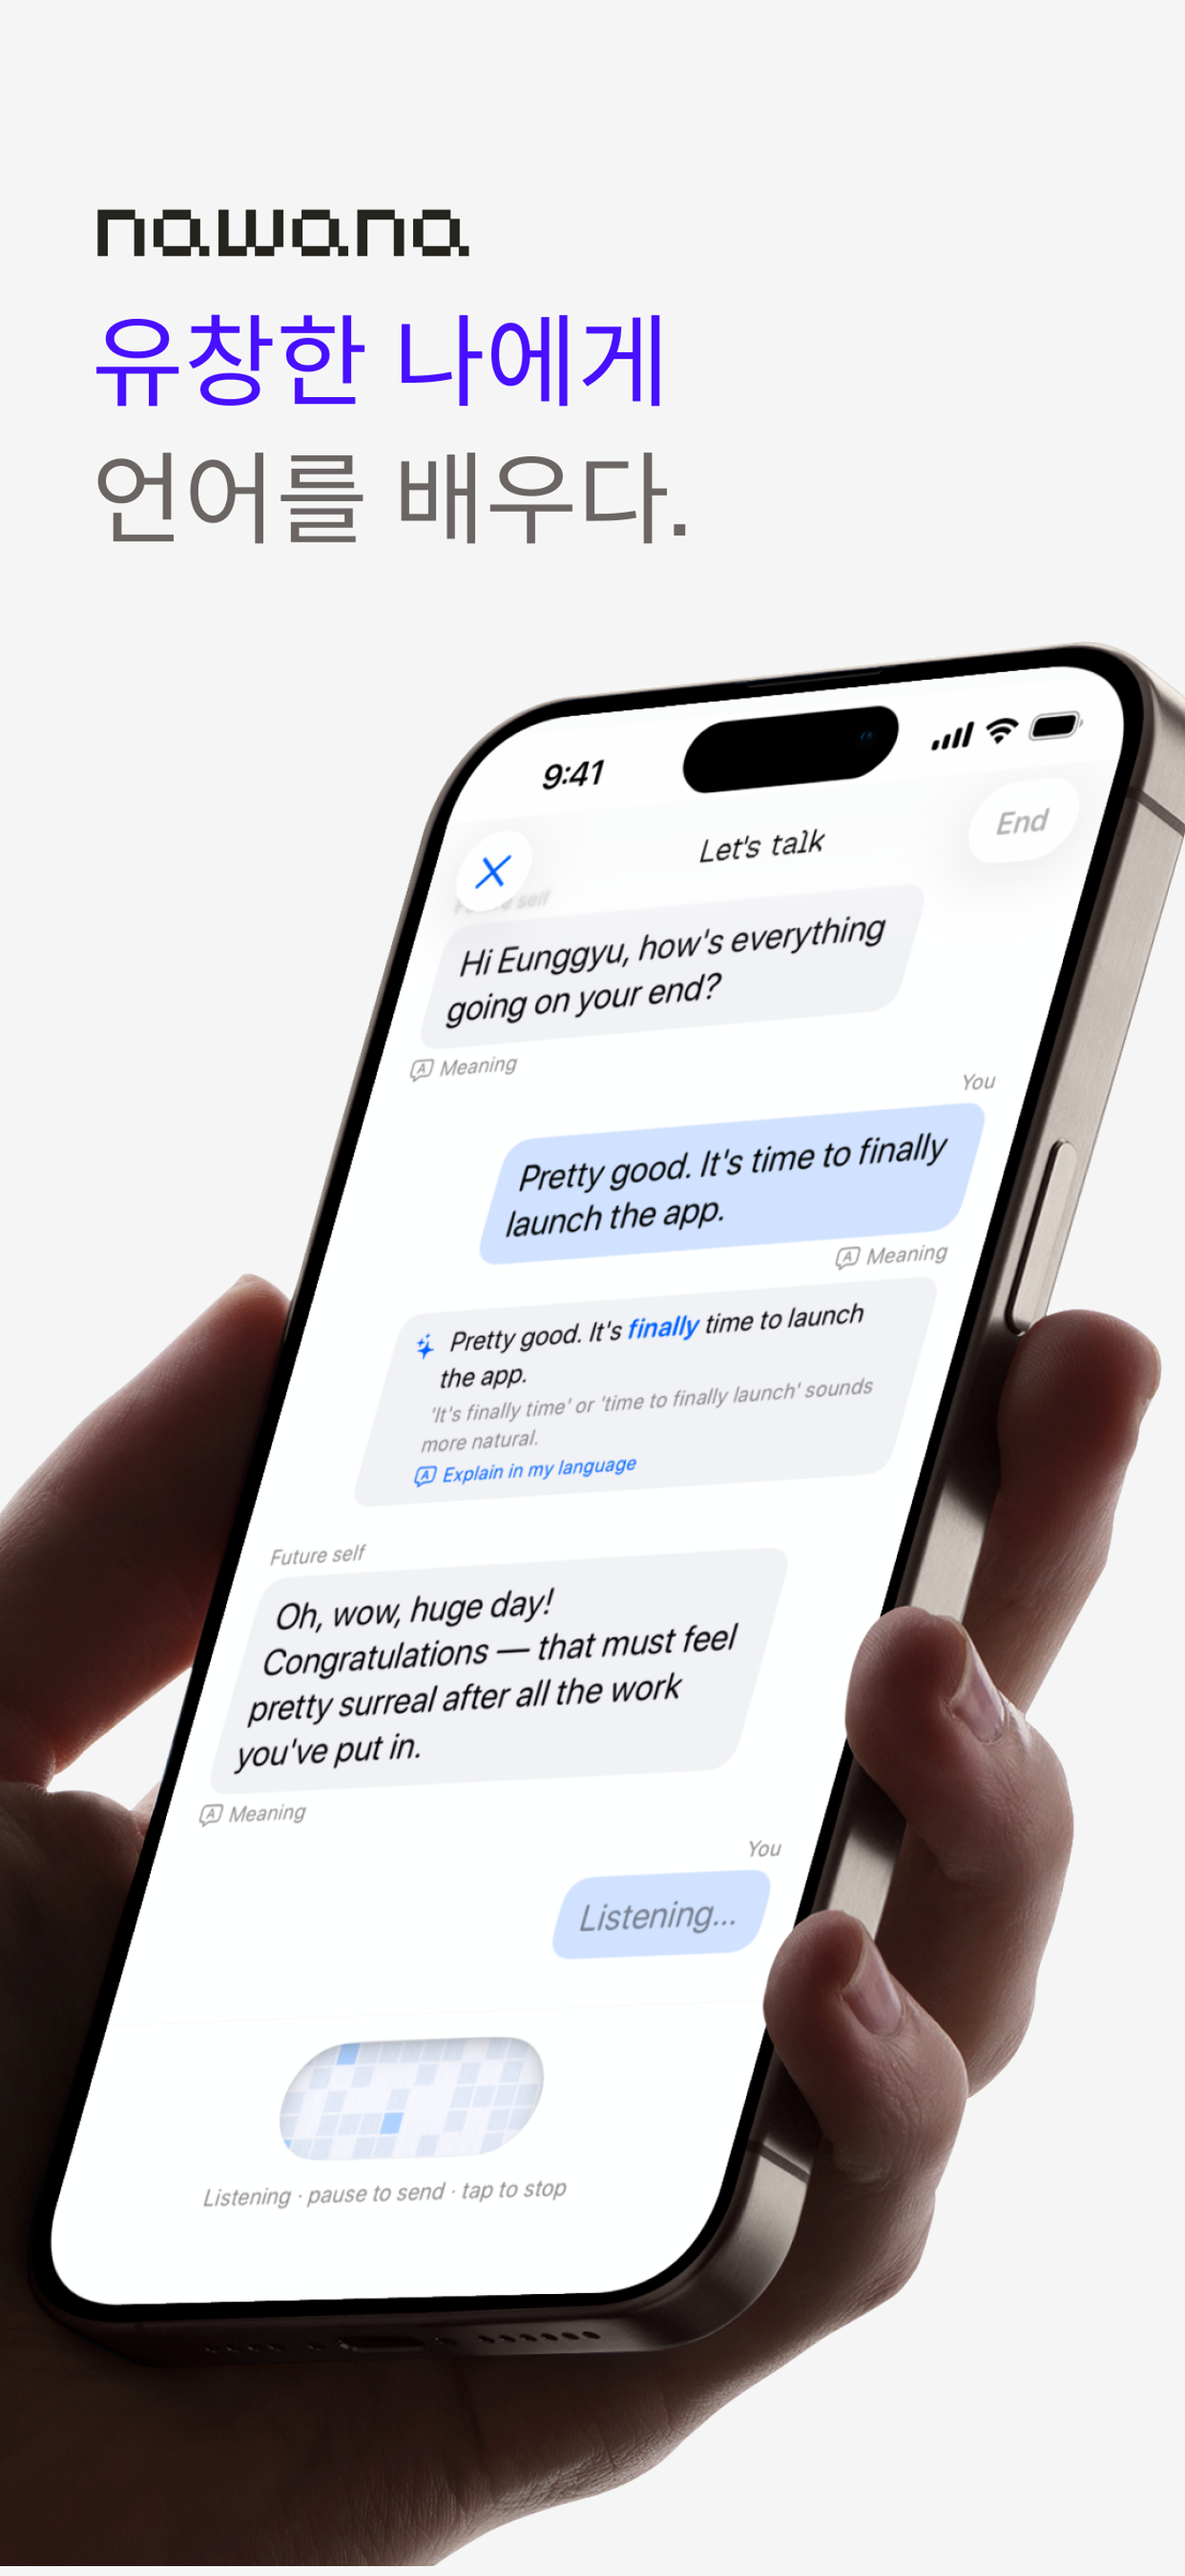
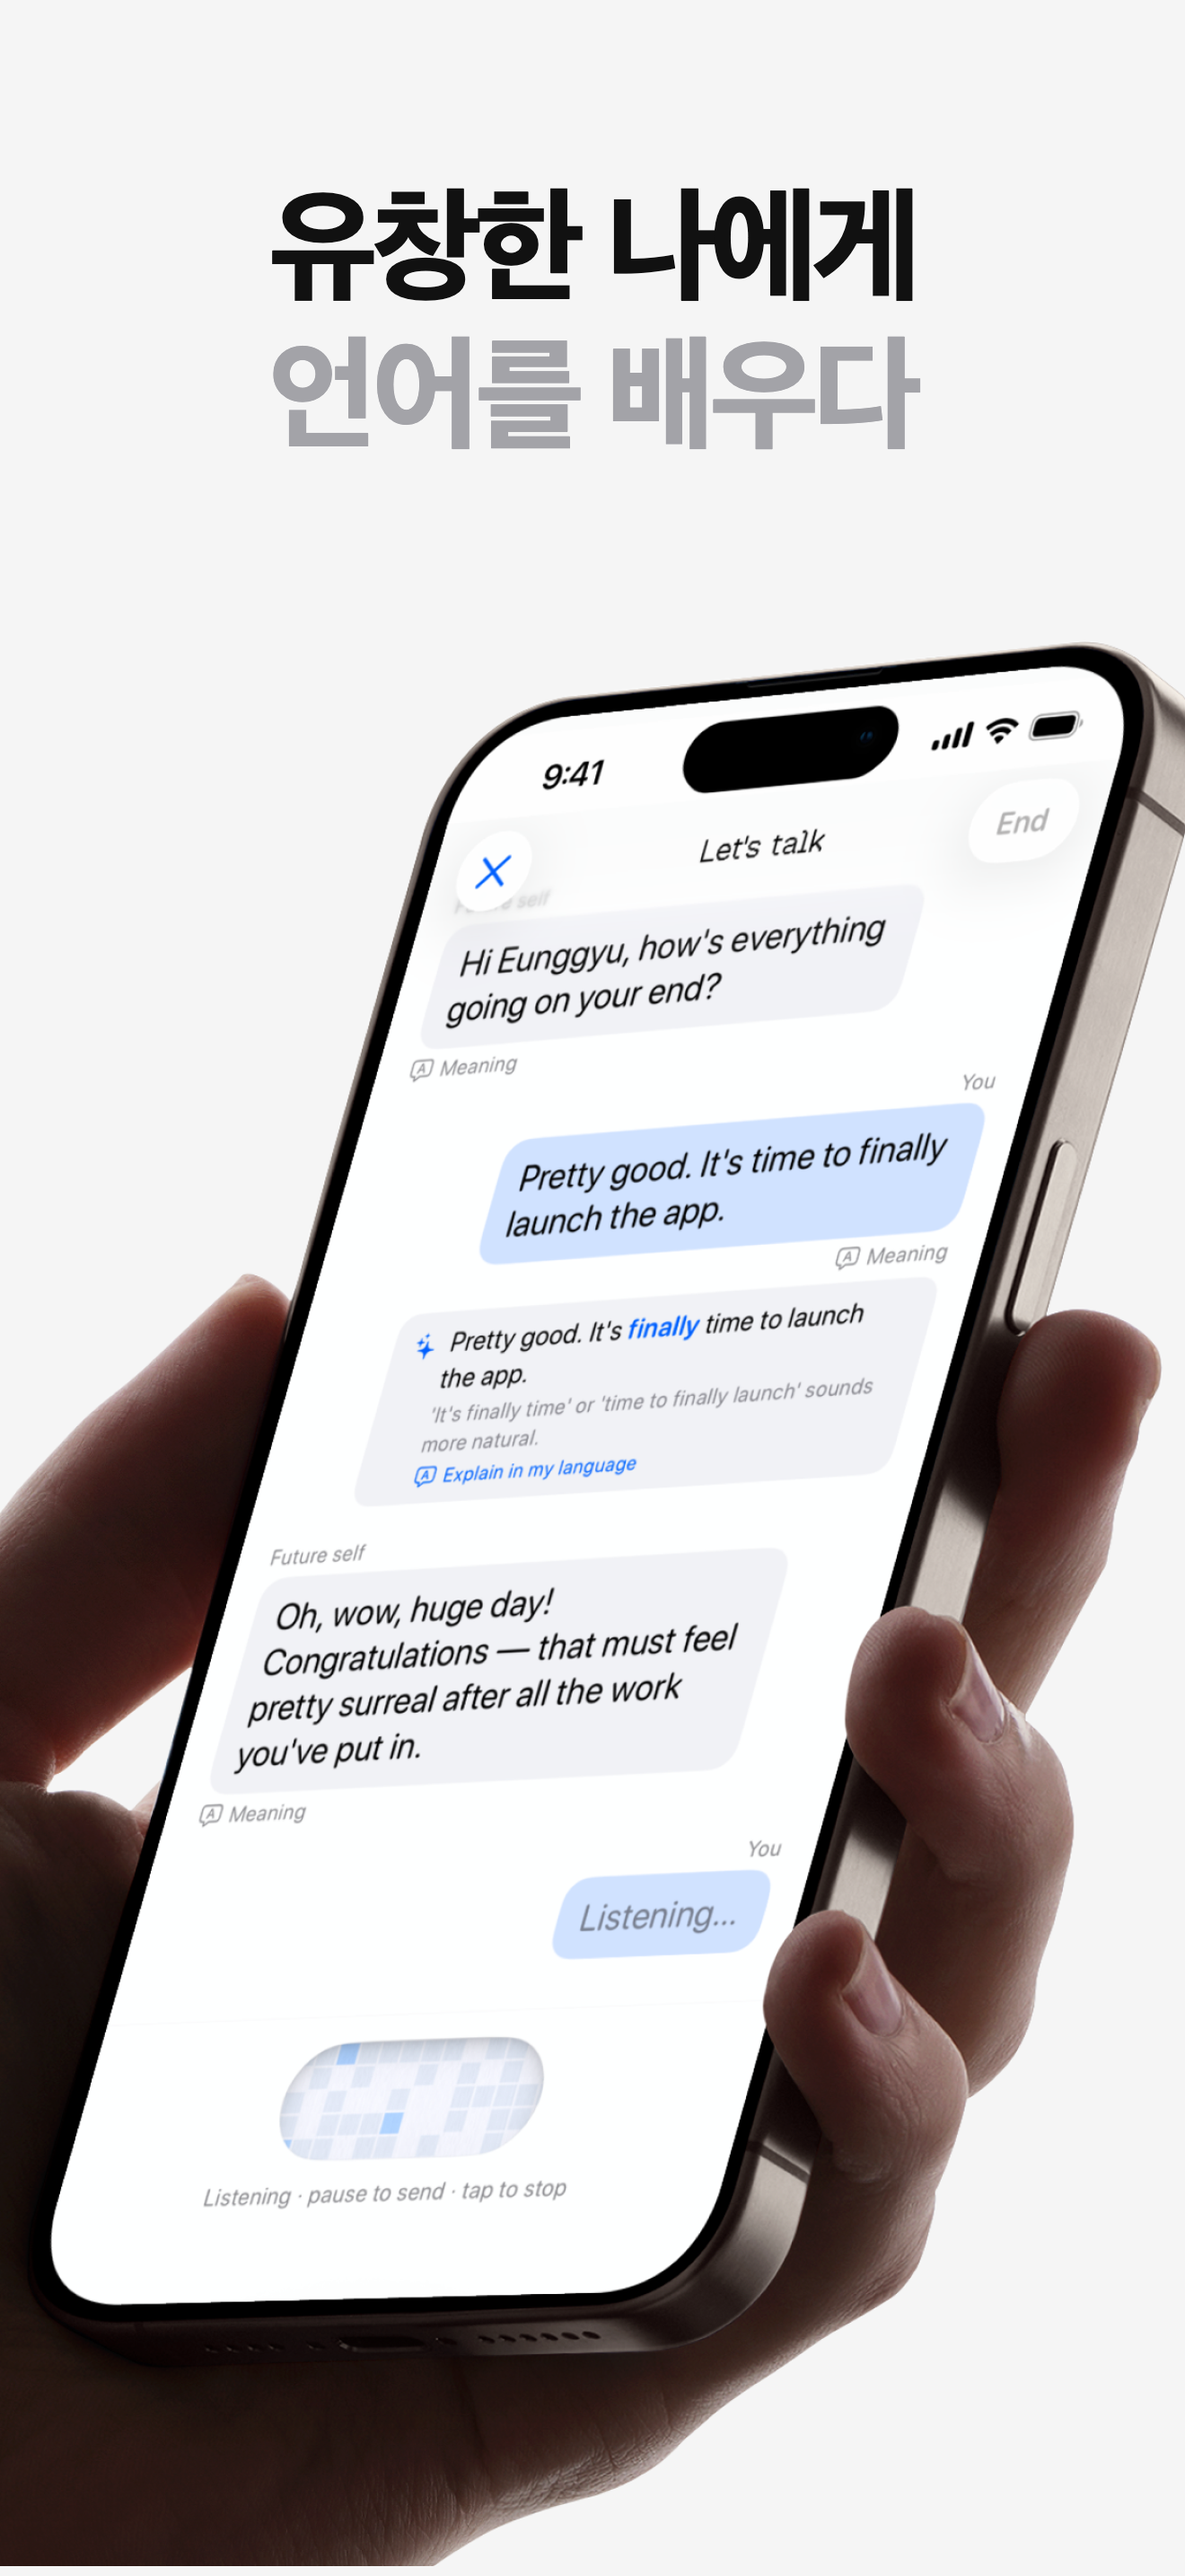
marketing(asc): screenshot 1 headline in the same type as the rest
The hand photo stays; its pixel-font wordmark and text give way to the
two-tone bold headline every other shot uses.

Changed region(s): [[0.0621, 0.0621, 0.7765, 0.2172]]

diff --git a/marketing/content/2026-11-11-asc-first-three/gen_01.py b/marketing/content/2026-11-11-asc-first-three/gen_01.py
@@ -1,0 +1,16 @@
+# Shot 01 (founder 11-15): the live hand photo kept, its pixel-font text replaced by the
+# same two-tone bold headline every other shot uses.
+import sys
+D = "/private/tmp/claude-502/-Users-eunggyuelee-FutureVoice/28555fe9-7198-4899-99bf-1aa90e91e314/scratchpad/asc/dev"
+TEXT = {"ko": ("유창한 나에게", "언어를 배우다"), "en": ("Learn a language", "from your fluent self")}
+SRC = {"ko": f"{D}/hand_1320.png", "en": f"{D}/hand_en_1320.png"}
+OUTF = {"ko": "G-set/01_hand.png", "en": "sets/ios/en/01.png"}
+for lang in ("ko", "en"):
+    sys.argv = ["x", lang, D]
+    import importlib, gen_lang as g
+    importlib.reload(g)
+    body = (f'<img src="file://{SRC[lang]}" style="position:absolute;left:0;top:0;width:1320px">'
+            '<div style="position:absolute;left:0;top:0;width:1320px;height:690px;background:#F5F5F5"></div>'
+            + g.title(TEXT[lang]))
+    g.render(body, f"{g.OUT}/{OUTF[lang]}")
+    print(OUTF[lang])
